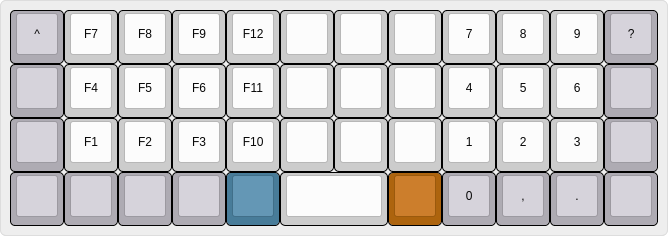
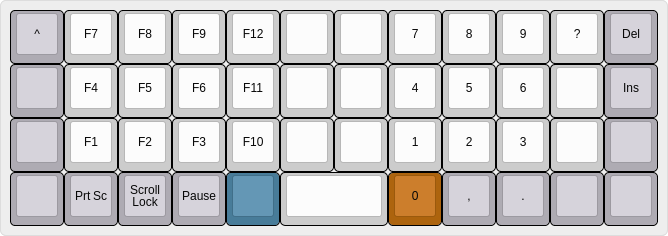
layout improvements

diff --git a/keyboards/planck/keymaps/fehmer/keymap.c b/keyboards/planck/keymaps/fehmer/keymap.c
@@ -28,60 +28,56 @@ enum planck_layers {
 };
 
 enum planck_keycodes {
-  QWERTY = SAFE_RANGE,
-
+  QWERTY = SAFE_RANGE
 };
 
-#define LOWER MO(_LOWER)
-#define RAISE MO(_RAISE)
-#define FNL MO(_FN)
+#define LOWER OSL(_LOWER)
+#define RAISE OSL(_RAISE)
+#define FNL OSL(_FN)
 
 
 const uint16_t PROGMEM keymaps[][MATRIX_ROWS][MATRIX_COLS] = {
 
 /* Qwerty
  * ,-----------------------------------------------------------------------------------.
- * | Esc  |   Q  |   W  |   E  |   R  |   T  |   Z  |   U  |   I  |   O  |   P  | Bksp |
+ * | Esc  |  Q   |   W  |   E  |   R  |   T  |   Z  |   U  |   I  |   O  |   P  | Bksp |
  * |------+------+------+------+------+-------------+------+------+------+------+------|
- * | FN   |   A  |   S  |   D  |   F  |   G  |   H  |   J  |   K  |   L  |   ;  |  "   |
+ * | Tab  |   A  |   S  |   D  |   F  |   G  |   H  |   J  |   K  |  L   |   +  |  #   |
  * |------+------+------+------+------+------|------+------+------+------+------+------|
  * | Shift|   Y  |   X  |   C  |   V  |   B  |   N  |   M  |   ,  |   .  |   -  |Enter |
  * |------+------+------+------+------+------+------+------+------+------+------+------|
- * | Ctrl| Tab   | GUI  | ALT  |Lower |    Space    |Raise |AltGr | GUI |  FN   | Ctrl |
+ * | Ctrl|ShftAlt| Gui  | Alt  |Lower |    Space    |Raise |AltGr | Gui  |  Fn  | Ctrl |
  * `-----------------------------------------------------------------------------------'
  */
 [_QWERTY] = LAYOUT_planck_grid(
-TD(TD_ESC_CAPS),  KC_Q,   KC_W,    KC_E,    KC_R,    KC_T,    KC_Y,    KC_U,    KC_I,    KC_O,    KC_P,    KC_BSPC,
-    FNL,          KC_A,   KC_S,    KC_D,    KC_F,    KC_G,    KC_H,    KC_J,    KC_K,    KC_L,    KC_RBRC, KC_NUHS,
-    KC_LSFT,      KC_Z,   KC_X,    KC_C,    KC_V,    KC_B,    KC_N,    KC_M,    KC_COMM, KC_DOT,  KC_SLSH, KC_ENT ,
-    KC_LCTL,      KC_TAB, KC_LGUI, KC_LALT, LOWER,   KC_SPC,  KC_SPC,  RAISE,   KC_RALT, KC_RGUI, FNL,     KC_RCTL
+TD(TD_ESC_CAPS), KC_Q,    KC_W,     KC_E,     KC_R,    KC_T,    KC_Y,    KC_U,    KC_I,     KC_O,     KC_P,    KC_BSPC,
+LT(_FN, KC_TAB), KC_A,    KC_S,     KC_D,     KC_F,    KC_G,    KC_H,    KC_J,    KC_K,     KC_L,     KC_RBRC, KC_NUHS,
+    KC_LSFT,     KC_Z,    KC_X,     KC_C,     KC_V,    KC_B,    KC_N,    KC_M,    KC_COMM,  KC_DOT,   KC_SLSH, RSFT_T(KC_ENT),
+    OSM_LCTL,    OSM_LAS, OSM_LGUI, OSM_LALT, LOWER,   KC_SPC,  KC_SPC,  RAISE,   OSM_RALT, OSM_RGUI, FNL,     OSM_RCTL
 ),
-
 /* Lower
  * ,-----------------------------------------------------------------------------------.
- * |  ^   |  F7  |  F8  |  F9  |  F12 |      |      |      |   7  |   8  |   9  |   ?  |
+ * |  ^   |  F7  |  F8  |  F9  |  F12 |      |      |   7  |   8  |   9  |   ?  |  Del |
  * |------+------+------+------+------+-------------+------+------+------+------+------|
- * |      |  F4  |  F5  |  F6  |  F11 |      |      |      |   4  |   5  |   6  |      |
+ * |      |  F4  |  F5  |  F6  |  F11 |      |      |   4  |   5  |   6  |      |  Ins |
  * |------+------+------+------+------+------|------+------+------+------+------+------|
- * |      |  F1  |  F2  |  F3  |  F10 |      |      |      |   1  |   2  |   3  |      |
+ * |      |  F1  |  F2  |  F3  |  F10 |      |      |   1  |   2  |   3  |      |      |
  * |------+------+------+------+------+------+------+------+------+------+------+------|
- * |      |      |      |      |      |             |      |   0  |   ,  |   .  |      |
+ * |      | Print|Scroll|Pause |      |             |   0  |   ,  |   .  |      |      |
  * `-----------------------------------------------------------------------------------'
  */
 [_LOWER] = LAYOUT_planck_grid(
-    KC_GRV,  KC_F7,   KC_F8,   KC_F9,   KC_F12,  _______, _______, _______,    KC_7,    KC_8,    KC_9,   S(KC_MINS),
-    _______, KC_F4,   KC_F5,   KC_F6,   KC_F11,  _______, _______, _______,    KC_4,    KC_5,    KC_6,   _______,
-    _______, KC_F1,   KC_F2,   KC_F3,   KC_F10,  _______, _______, _______,    KC_1,    KC_2,    KC_3,   _______,
-    _______, _______, _______, _______, _______, _______, _______, _______,    KC_0,    KC_COMM, KC_DOT, _______
+    KC_GRV,  KC_F7,   KC_F8,   KC_F9,   KC_F12,  _______, _______,     KC_7,    KC_8,    KC_9,   S(KC_MINS), KC_DEL,
+    _______, KC_F4,   KC_F5,   KC_F6,   KC_F11,  _______, _______,     KC_4,    KC_5,    KC_6,   _______,    KC_INS,
+    _______, KC_F1,   KC_F2,   KC_F3,   KC_F10,  _______, _______,     KC_1,    KC_2,    KC_3,   _______,    _______,
+    _______, KC_PSCR, KC_SLCK, KC_PAUS, _______, _______, _______,     KC_0,    KC_COMM, KC_DOT, _______,    _______
 ),
 
 /* Raise
- *     esc    1      2      3      4      5      6      7      8      9      0       ß
- *     esc    q      w      e      r      t      z      u      i      o      p      <-
  * ,-----------------------------------------------------------------------------------.
- * |   °  |   !  |   "  |   §  |   $  |   %  |   &  |   /  |   (  |   )  |   =  |  \   |
+ * |   °  |   !  |   "  |   §  |   $  |   %  |   &  |   /  |   (  |   )  |   =  |      |
  * |------+------+------+------+------+-------------+------+------+------+------+------|
- * |      |      |      |      |      |      |      |      |   {  |   }  |      |   ´  |
+ * |      |      |      |      |      |      |      |      |   {  |   }  |   ´  |   \  |
  * |------+------+------+------+------+------+------+------+------+------+------+------|
  * |      |   |  |      |      |      |      |      |      |   [  |   ]  |      |      |
  * |------+------+------+------+------+------+------+------+------+------+------+------|
@@ -89,8 +85,8 @@ TD(TD_ESC_CAPS),  KC_Q,   KC_W,    KC_E,    KC_R,    KC_T,    KC_Y,    KC_U,    
  * `-----------------------------------------------------------------------------------'
  */
 [_RAISE] = LAYOUT_planck_grid(
-    S(KC_GRV), KC_EXLM,       KC_AT,   KC_HASH, KC_DLR,  KC_PERC, KC_CIRC, KC_AMPR, KC_ASTR,    KC_LPRN,   KC_RPRN,  ALGR(KC_MINS),
-    _______,   _______,       _______, _______, _______, _______, _______, _______, ALGR(KC_7), ALGR(KC_0), _______, KC_EQL,
+    S(KC_GRV), KC_EXLM,       KC_AT,   KC_HASH, KC_DLR,  KC_PERC, KC_CIRC, KC_AMPR, KC_ASTR,    KC_LPRN,    KC_RPRN, _______,
+    _______,   _______,       _______, _______, _______, _______, _______, _______, ALGR(KC_7), ALGR(KC_0), KC_EQL,  ALGR(KC_MINS),
     _______,   ALGR(KC_NUBS), _______, _______, _______, _______, _______, _______, ALGR(KC_8), ALGR(KC_9), _______, _______,
     _______,   _______,       _______, _______, _______, _______, _______, _______, KC_NUBS,    S(KC_NUBS), _______, _______
 ),
@@ -107,7 +103,7 @@ TD(TD_ESC_CAPS),  KC_Q,   KC_W,    KC_E,    KC_R,    KC_T,    KC_Y,    KC_U,    
  * `-----------------------------------------------------------------------------------'
  */
 [_FN] = LAYOUT_planck_grid(
-    _______, C(KC_1), _______, _______, _______, _______, _______, KC_LBRC, KC_UP,   KC_SCLN,  KC_MINS, KC_DEL ,
+    _______, C(KC_1), _______, _______, _______, _______, _______, KC_LBRC, KC_UP,   KC_SCLN,  KC_MINS, KC_DEL,
     _______, KC_QUOT, _______, _______, _______, _______, KC_PGUP, KC_LEFT, KC_DOWN, KC_RIGHT, _______, KC_INS,
     _______, _______, _______, _______, _______, _______, KC_PGDN, KC_HOME, KC_END,  _______,  _______, _______,
     _______, _______, _______, _______, _______, _______, _______, _______, KC_MNXT, KC_VOLD,  KC_VOLU, KC_MPLY
@@ -115,7 +111,7 @@ TD(TD_ESC_CAPS),  KC_Q,   KC_W,    KC_E,    KC_R,    KC_T,    KC_Y,    KC_U,    
 
 /* Adjust (Lower + Raise)
  * ,-----------------------------------------------------------------------------------.
- * |      | Reset|      |      |      |      |      |      |      |      |      |  Del |
+ * |      | Reset|      |      |      |      |      |      |      |      |      |      |
  * |------+------+------+------+------+-------------+------+------+------+------+------|
  * |      |      |      |Aud on|Audoff|AGnorm|AGswap|Qwerty|Colemk|Dvorak|Plover|      |
  * |------+------+------+------+------+------|------+------+------+------+------+------|
@@ -125,7 +121,7 @@ TD(TD_ESC_CAPS),  KC_Q,   KC_W,    KC_E,    KC_R,    KC_T,    KC_Y,    KC_U,    
  * `-----------------------------------------------------------------------------------'
  */
 [_ADJUST] = LAYOUT_planck_grid(
-    _______, RESET,   DEBUG,   _______, _______, _______, _______, _______, _______,  _______, _______, KC_DEL ,
+    _______, RESET,   DEBUG,   _______, _______, _______, _______, _______, _______,  _______, _______, _______ ,
     _______, _______, MU_MOD,  AU_ON,   AU_OFF,  AG_NORM, AG_SWAP, QWERTY,  _______,  _______,  _______,  _______,
     _______, MUV_DE,  MUV_IN,  MU_ON,   MU_OFF,  MI_ON,   MI_OFF,  TERM_ON, TERM_OFF, _______, _______, _______,
     _______, _______, _______, _______, _______, _______, _______, _______, _______,  _______, _______, _______
@@ -142,7 +138,6 @@ bool process_record_user(uint16_t keycode, keyrecord_t *record) {
   switch (keycode) {
     case QWERTY:
       if (record->event.pressed) {
-        print("mode just switched to qwerty and this is a huge string\n");
         set_single_persistent_default_layer(_QWERTY);
       }
       return false;
@@ -150,3 +145,5 @@ bool process_record_user(uint16_t keycode, keyrecord_t *record) {
   }
   return true;
 }
+
+

diff --git a/users/fehmer/fehmer.h b/users/fehmer/fehmer.h
@@ -16,45 +16,17 @@
 // Used for SHIFT_ESC
 #define MODS_CTRL_MASK  (MOD_BIT(KC_LSHIFT)|MOD_BIT(KC_RSHIFT))
 
-// Each layer gets a name for readability, which is then used in the keymap matrix below.
-// The underscores don't mean anything - you can have a layer called STUFF or any other name.
-// Layer names don't all need to be of the same length, obviously, and you can also skip them
-// entirely and just use numbers.
-#define BASE 0  // Default layer
-#define FN   1  // Function layer
+//one shot modifier shortcuts
+#define OSM_LALT OSM(MOD_LALT)
+#define OSM_RALT OSM(MOD_RALT)
+#define OSM_LCTL OSM(MOD_LCTL)
+#define OSM_RCTL OSM(MOD_RCTL)
+#define OSM_LAS OSM(MOD_LALT|MOD_LSFT)
+#define OSM_LGUI OSM(MOD_LGUI)
+#define OSM_RGUI OSM(MOD_RGUI)
 
-// Special Actions and Media Keys
-#define MUTE KC_MUTE  // Mute sound
-#define VOLU KC_VOLU  // Volume increase
-#define VOLD KC_VOLD  // Volume decrease
-#define M_UP KS_MS_UP // Mouse UP
-
-#define INSE KC_INS   // Insert here
-#define HOME KC_HOME  // Go to beginning of line
-#define ENDI KC_END   // go to end of line
-#define PSCR KC_PSCR  // Print Screen
-#define SLCK KC_SLCK  // go to end of line
-#define PGDN KC_PGDN  // go to end of line
-#define PGUP KC_PGUP  // go to end of line
-#define PLPS KC_MPLY  // Play/Pause
-#define PAUS KC_PAUS  // Pause button
-#define MNXT KC_MNXT  // next track
-#define MPRV KC_MPRV  // prev track
-#define MSTP KC_MSTP  // stop playing
-#define MSEL KC_MSEL  // Select media (Start playing it)
-#define MAIL KC_MAIL  // Open default mail app
-#define CALC KC_CALC  // Open default calculator app
-#define MYCM KC_MYCM  // Open default file manager
-
-#define _______ KC_TRNS
-#define XXXXX    KC_NO
-
-
+// tapdance names
 typedef enum {
   TD_ESC_CAPS = 0,
+  TD_TAB_ESC = 1,
 } TAPDANCE;
-
-
-enum function_id {
-    SHIFT_ESC,
-};

diff --git a/users/fehmer/fehmer.c b/users/fehmer/fehmer.c
@@ -3,38 +3,8 @@
 */
 #include "fehmer.h"
 
-
 qk_tap_dance_action_t tap_dance_actions[] = {
   //Tap once for Esc, twice for Caps Lock
-  [TD_ESC_CAPS]  = ACTION_TAP_DANCE_DOUBLE(KC_ESC, KC_CAPS)
+  [TD_ESC_CAPS]  = ACTION_TAP_DANCE_DOUBLE(KC_ESC, KC_CAPS),
+  [TD_TAB_ESC]  = ACTION_TAP_DANCE_DOUBLE(KC_TAB, KC_ESC)
 };
-
-const uint16_t PROGMEM fn_actions[] = {
-  [0]  = ACTION_FUNCTION(SHIFT_ESC),
-};
-
-void action_function(keyrecord_t *record, uint8_t id, uint8_t opt) {
-  static uint8_t shift_esc_shift_mask;
-  switch (id) {
-    case SHIFT_ESC:
-      shift_esc_shift_mask = get_mods()&MODS_CTRL_MASK;
-      if (record->event.pressed) {
-        if (shift_esc_shift_mask) {
-          add_key(KC_GRV);
-          send_keyboard_report();
-        } else {
-          add_key(KC_ESC);
-          send_keyboard_report();
-        }
-      } else {
-        if (shift_esc_shift_mask) {
-          del_key(KC_GRV);
-          send_keyboard_report();
-        } else {
-          del_key(KC_ESC);
-          send_keyboard_report();
-        }
-      }
-      break;
-  }
-}

diff --git a/keyboards/planck/keymaps/fehmer/readme.md b/keyboards/planck/keymaps/fehmer/readme.md
@@ -1,18 +1,27 @@
 # My Planck Layout
 
-Simplified layout based on german qwertz layout.
+Simplified layout based on German qwertz layout.
 
-F-keys and and number-keys following the numpad-order with numbers on the right and f-keys on the left.
+Features:
 
-Arrow keys from the default layout are mapped to the traditional AltGr, Gui, FN, Ctrl layout. 
-
-Other special keys are moved to the FN layer to be simmilar to the layout of my other keyboards. 
-
+- one-shot modifiers(except shift). Allows to press keys after each other instead of simultaneous. E.g. `ctrl` and then `s` to save a file
+- dual function keys using double tab
+    + double tab escape for caps-lock
+- dual function keys using hold
+    + hold tab for the FN layer
+    + hold enter for right shift
+- extra keys
+    + combined shift+alt key
+    + ctrl+1 key
+- F-keys and and number-keys following the numpad-order with numbers on the right and f-keys on the left.
+- Arrow keys from the default layout are mapped to the traditional AltGr, Gui, FN, Ctrl layout.
+- german special chars (umlaute) moved to FN-layer
+- Other special keys are moved to the FN-layer to be similar to the layout of my other keyboards. 
 
 ## build and flash
 
 ```
-sudo make planck:rev6:fehmer:dfu-util
+sudo make planck/rev6:fehmer:dfu-util
 ```
 
 ## Layers
